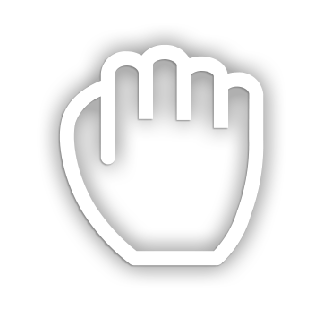
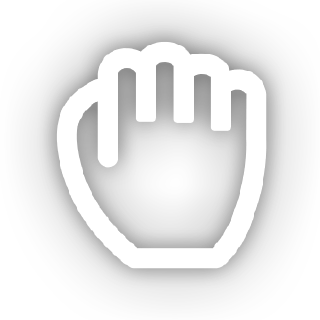
change the style of grab_cursor

Changed region(s): [[0.125, 0.0625, 0.875, 0.8438], [0.2188, 0.5938, 0.25, 0.6562], [0.3125, 0.75, 0.3438, 0.7812]]

diff --git a/main.py b/main.py
@@ -11,7 +11,7 @@ import time
 from character_dict import *
 from hand_detection import *
 from level_design import *
-use_mouse = False
+use_mouse = True
 level = 1
 
 
